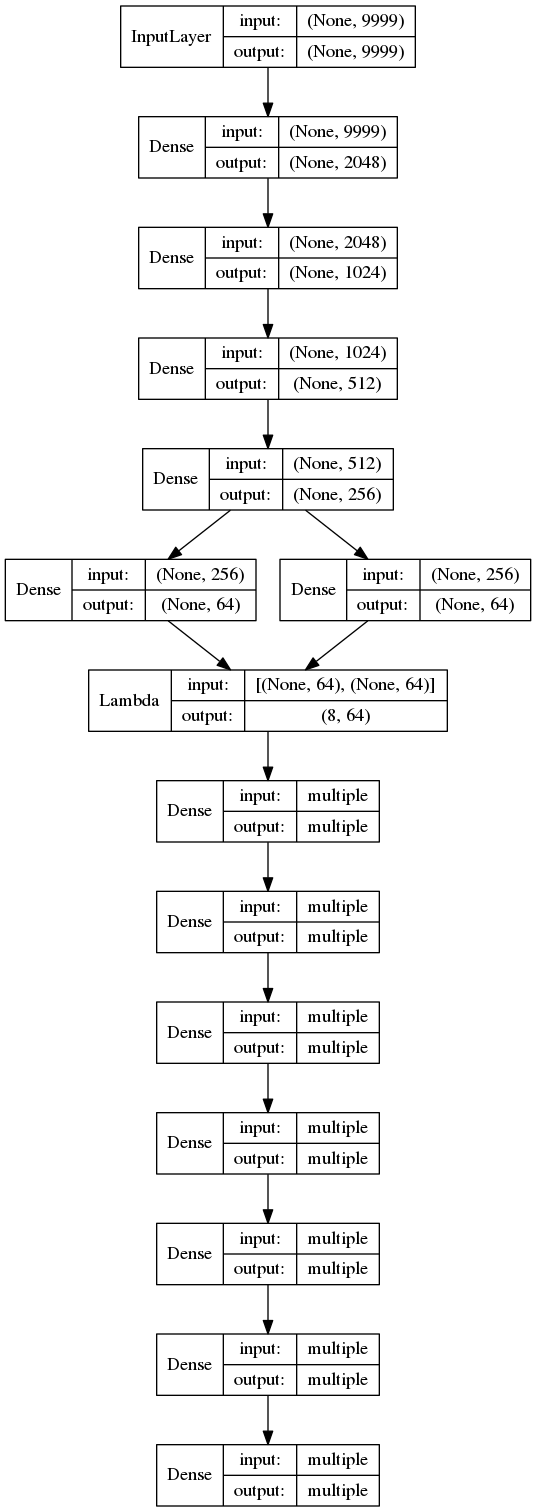
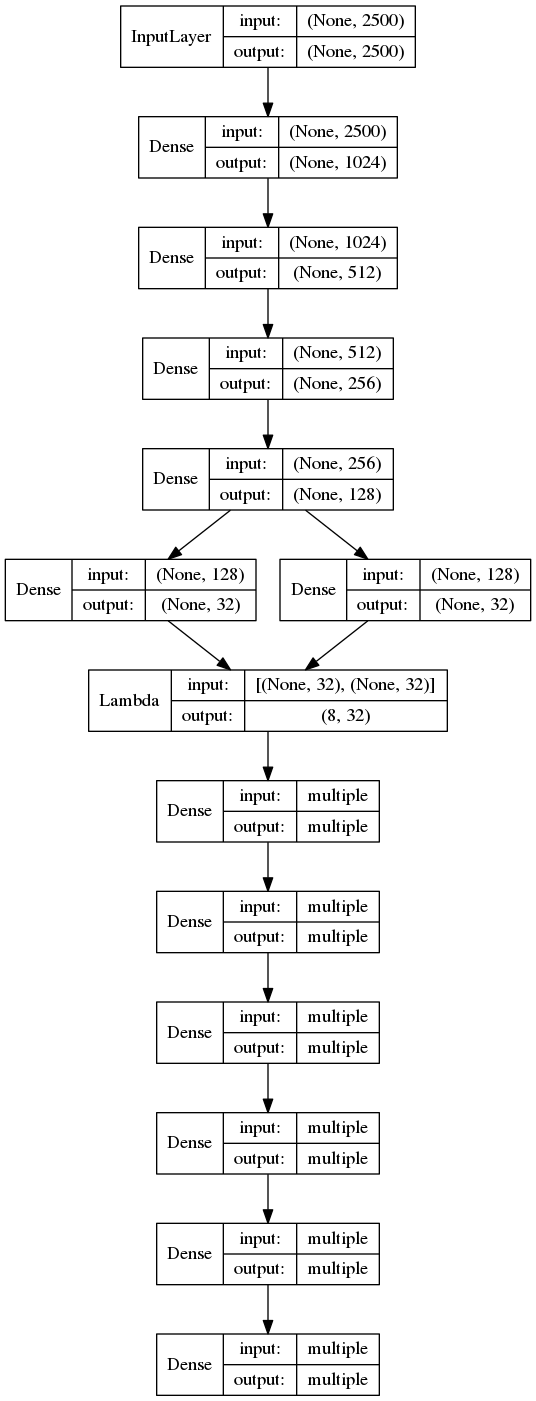
Extended Cls

Changed region(s): [[0.0, 0.0, 1.0, 1.0], [0.2687, 0.6138, 0.2985, 0.6445]]

diff --git a/Cl_extendedP10.py b/Cl_extendedP10.py
@@ -40,7 +40,7 @@ K.set_floatx('float32')
 ###################### PARAMETERS ##############################
 
 original_dim = params.original_dim # 2549
-intermediate_dim3 = params.intermediate_dim3 # 1600
+# intermediate_dim3 = params.intermediate_dim3 # 1600
 intermediate_dim2 = params.intermediate_dim2 # 1024
 intermediate_dim1 = params.intermediate_dim1 # 512
 intermediate_dim0 = params.intermediate_dim0 # 256
@@ -77,7 +77,10 @@ Trainfiles = np.loadtxt(DataDir + 'P'+str(num_para)+ClID+'Cl_'+str(num_train)+'.
 Testfiles = np.loadtxt(DataDir + 'P'+str(num_para)+ClID+'Cl_'+str(num_test)+'.txt')
 
 Trainfiles = (Trainfiles[~np.isnan(Trainfiles).any(axis=1)]) # removing rows with nan
+Testfiles = (Testfiles[~np.isnan(Testfiles).any(axis=1)]) # removing rows with nan
 
+
+ls = np.loadtxt(DataDir+'P'+str(num_para)+'ls_'+str(num_train)+'.txt')[2:]
 
 
 x_train = Trainfiles[:, num_para+2:]
@@ -85,12 +88,19 @@ x_test = Testfiles[:, num_para+2:]
 y_train = Trainfiles[:, 0: num_para]
 y_test =  Testfiles[:, 0: num_para]
 
+
+######## REDUCING SIZE OF THE ##########
+x_train = x_train[:, ::2]
+x_test = x_test[:, ::2]
+ls = ls[::2]
+#######################################
+
 print(x_train.shape, 'train sequences')
 print(x_test.shape, 'test sequences')
 print(y_train.shape, 'train sequences')
 print(y_test.shape, 'test sequences')
 
-ls = np.loadtxt(DataDir+'P'+str(num_para)+'ls_'+str(num_train)+'.txt')[2:]
+
 
 #------------------------- SCALAR parameter for rescaling -----------------------
 #### ---- All the Cl's are rescaled uniformly #####################
@@ -176,7 +186,7 @@ x_train = K.cast_to_floatx(x_train)
 
 # Q(z|X) -- encoder
 inputs = Input(shape=(original_dim,))
-h_q3 = Dense(intermediate_dim3, activation='relu')(inputs) # ADDED intermediate layer
+# h_q3 = Dense(intermediate_dim3, activation='relu')(inputs) # ADDED intermediate layer
 h_q2 = Dense(intermediate_dim2, activation='relu')(inputs) # ADDED intermediate layer
 h_q1 = Dense(intermediate_dim1, activation='relu')(h_q2) # ADDED intermediate layer
 h_q0 = Dense(intermediate_dim0, activation='relu')(h_q1) # ADDED intermediate layer
@@ -203,7 +213,7 @@ decoder_hidden0 = Dense(intermediate_dim, activation='relu') # ADDED intermediat
 decoder_hidden1 = Dense(intermediate_dim0, activation='relu') # ADDED intermediate layer
 decoder_hidden2 = Dense(intermediate_dim1, activation='relu') # ADDED intermediate layer
 decoder_hidden3 = Dense(intermediate_dim2, activation='relu') # ADDED intermediate layer
-decoder_hidden4 = Dense(intermediate_dim3, activation='relu') # ADDED intermediate layer
+# decoder_hidden4 = Dense(intermediate_dim3, activation='relu') # ADDED intermediate layer
 decoder_out = Dense(original_dim, activation='sigmoid')
 
 h_p0 = decoder_hidden(z)
@@ -211,8 +221,8 @@ h_p1 = decoder_hidden0(h_p0) # ADDED intermediate layer
 h_p2 = decoder_hidden1(h_p1) # ADDED intermediate layer
 h_p3 = decoder_hidden2(h_p2) # ADDED intermediate layer
 h_p4 = decoder_hidden3(h_p3) # ADDED intermediate layer
-h_p5 = decoder_hidden4(h_p4) # ADDED intermediate layer
-outputs = decoder_out(h_p5)
+# h_p5 = decoder_hidden4(h_p4) # ADDED intermediate layer
+outputs = decoder_out(h_p4)
 
 # ----------------------------------------------------------------------------
 
@@ -240,8 +250,8 @@ _h0_decoded = decoder_hidden0(_h_decoded)    ## ADDED layer_1
 _h1_decoded = decoder_hidden1(_h0_decoded)    ## ADDED layer_1
 _h2_decoded = decoder_hidden2(_h1_decoded)    ## ADDED ---
 _h3_decoded = decoder_hidden3(_h2_decoded)    ## ADDED --- should replicate decoder arch
-_h4_decoded = decoder_hidden4(_h3_decoded)    ## ADDED --- should replicate decoder arch
-_x_decoded_mean = decoder_out(_h4_decoded)
+# _h4_decoded = decoder_hidden4(_h3_decoded)    ## ADDED --- should replicate decoder arch
+_x_decoded_mean = decoder_out(_h3_decoded)
 decoder = Model(decoder_input, _x_decoded_mean)
 
 

diff --git a/params_ext.py b/params_ext.py
@@ -1,12 +1,12 @@
 ######################## EXTENDED ell ~10k models ##########################
 
-original_dim = 9999 #/2 +1  #2551 # mnist ~ 784
-intermediate_dim3 = 4096
-intermediate_dim2 = 2048
-intermediate_dim1 = 1024
-intermediate_dim0 = 512
-intermediate_dim = 256
-latent_dim = 64
+original_dim = 2500 #/2 +1  #2551 # mnist ~ 784
+intermediate_dim3 = 2048
+intermediate_dim2 = 1024
+intermediate_dim1 = 512
+intermediate_dim0 = 256
+intermediate_dim = 128
+latent_dim = 32
 
 ClID = ['TT', 'EE', 'BB', 'TE'][0]
 num_train = 1024
